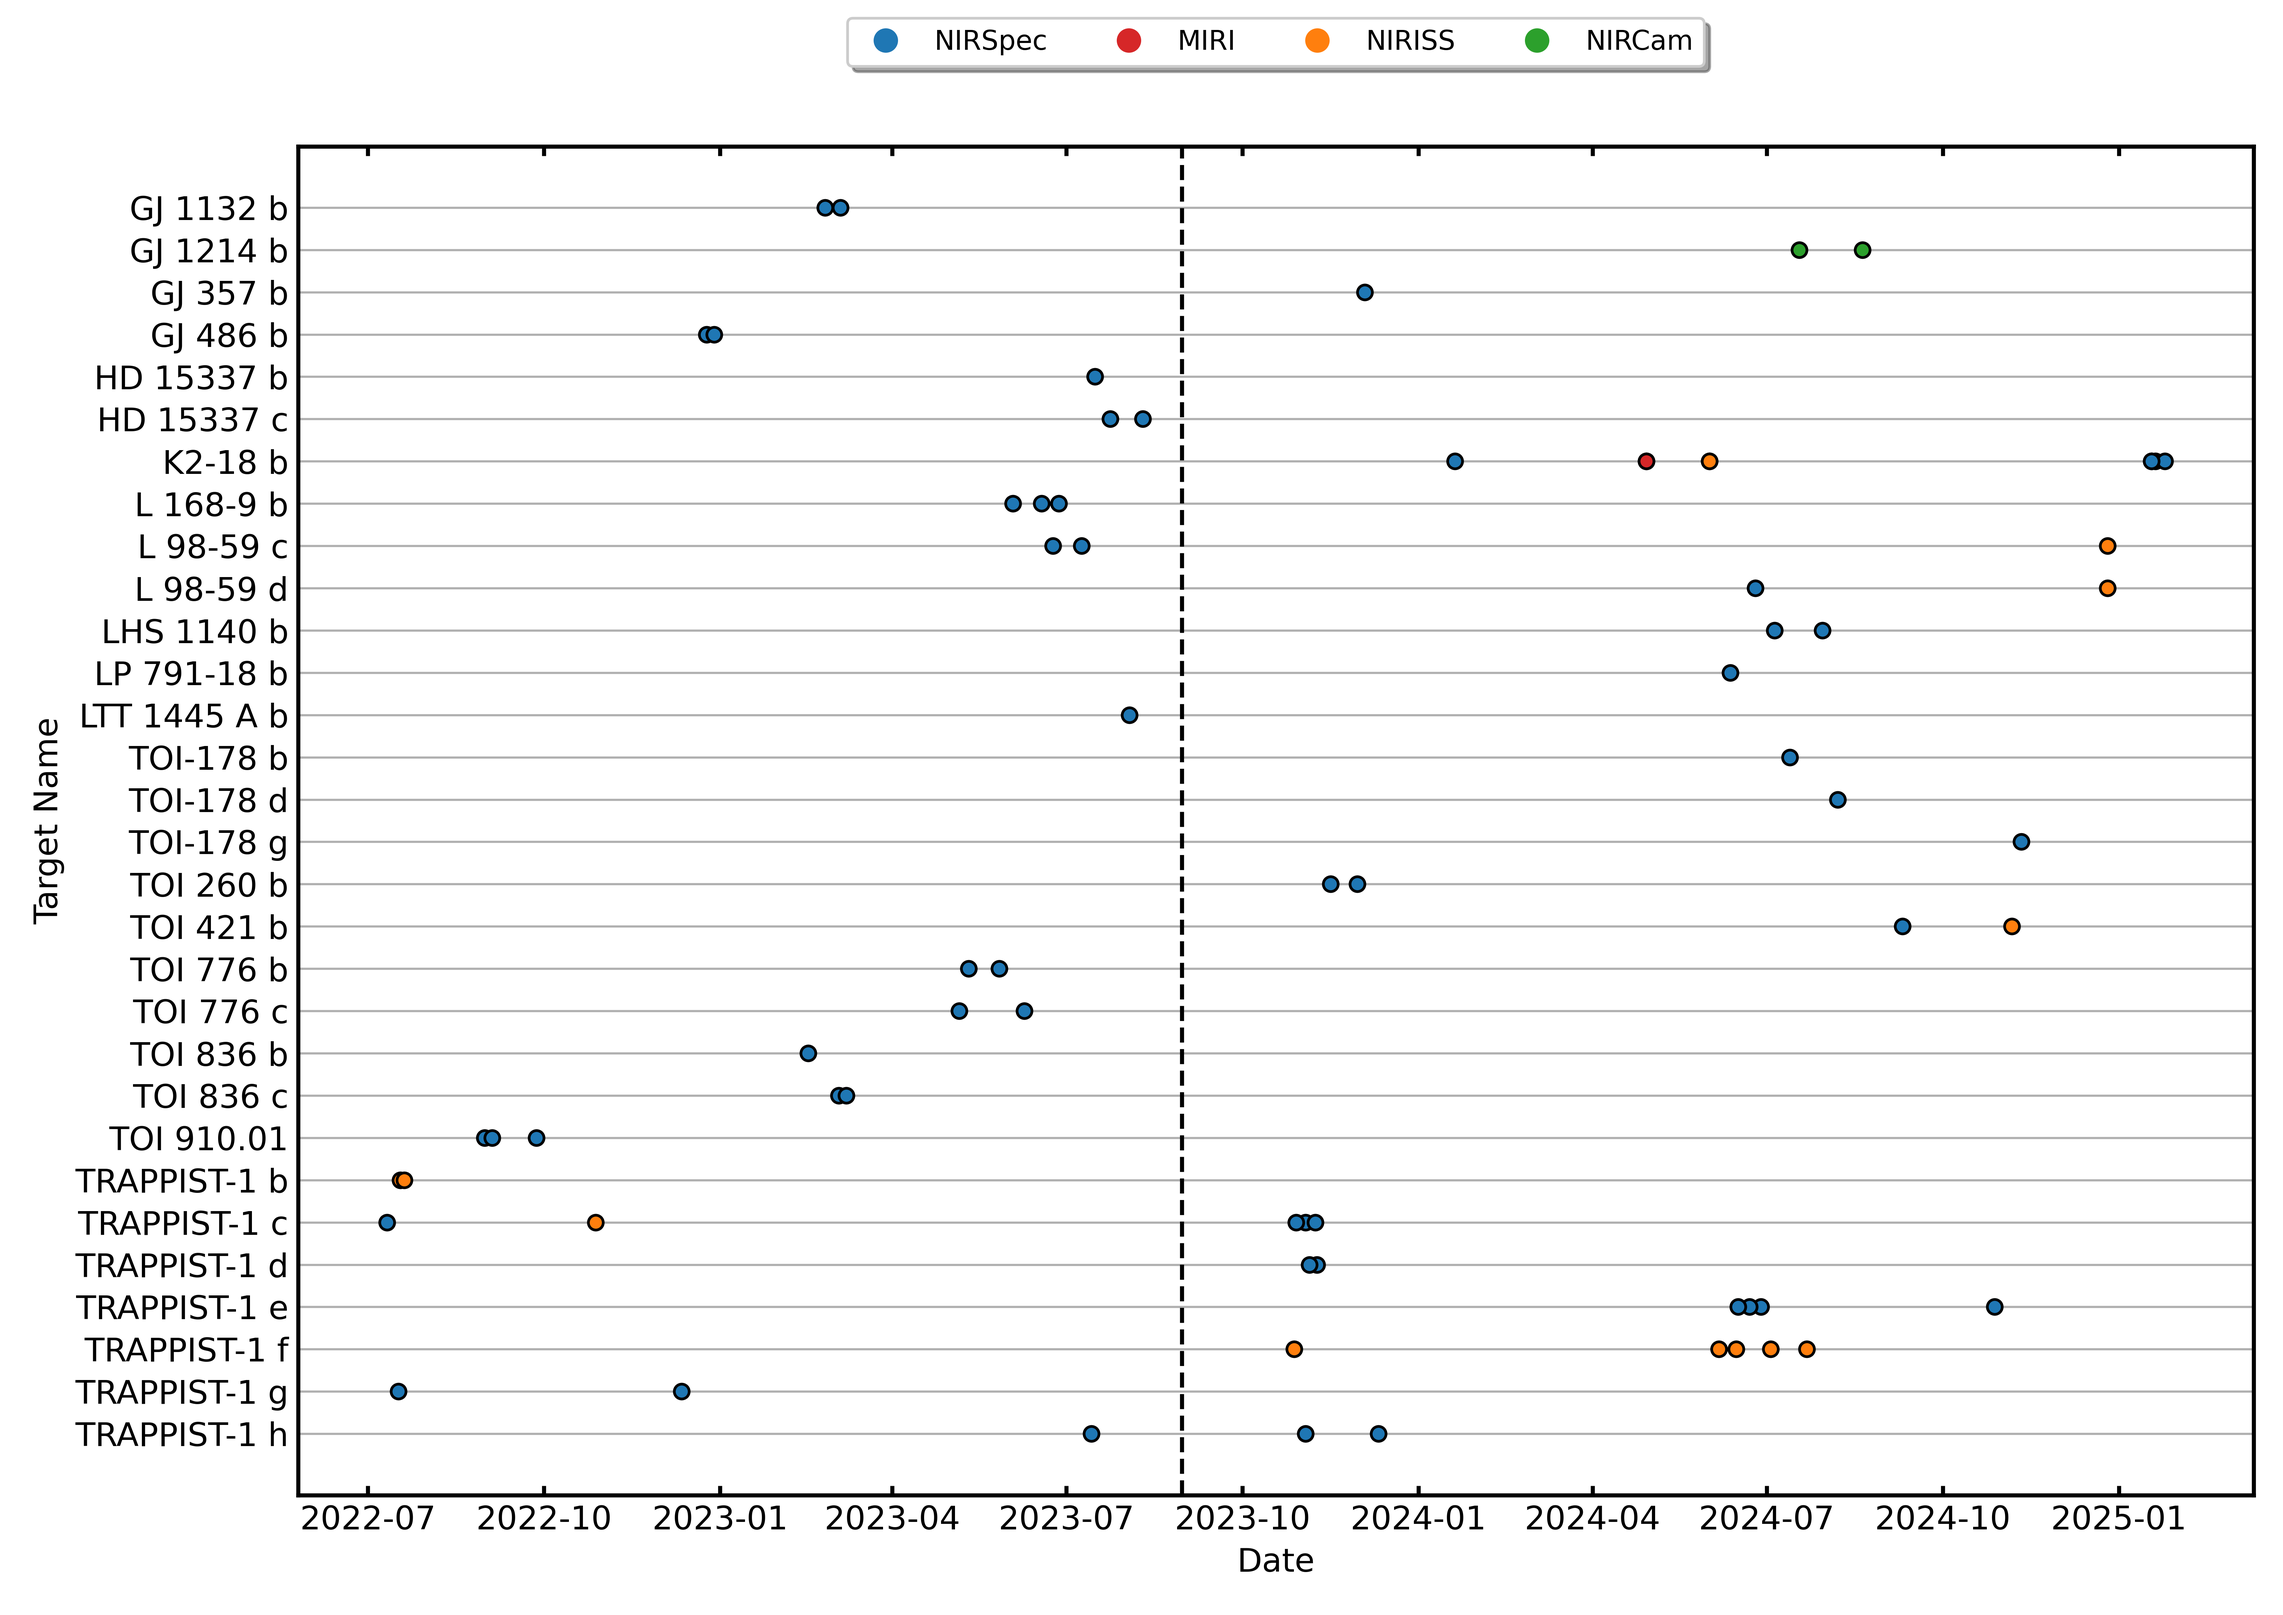
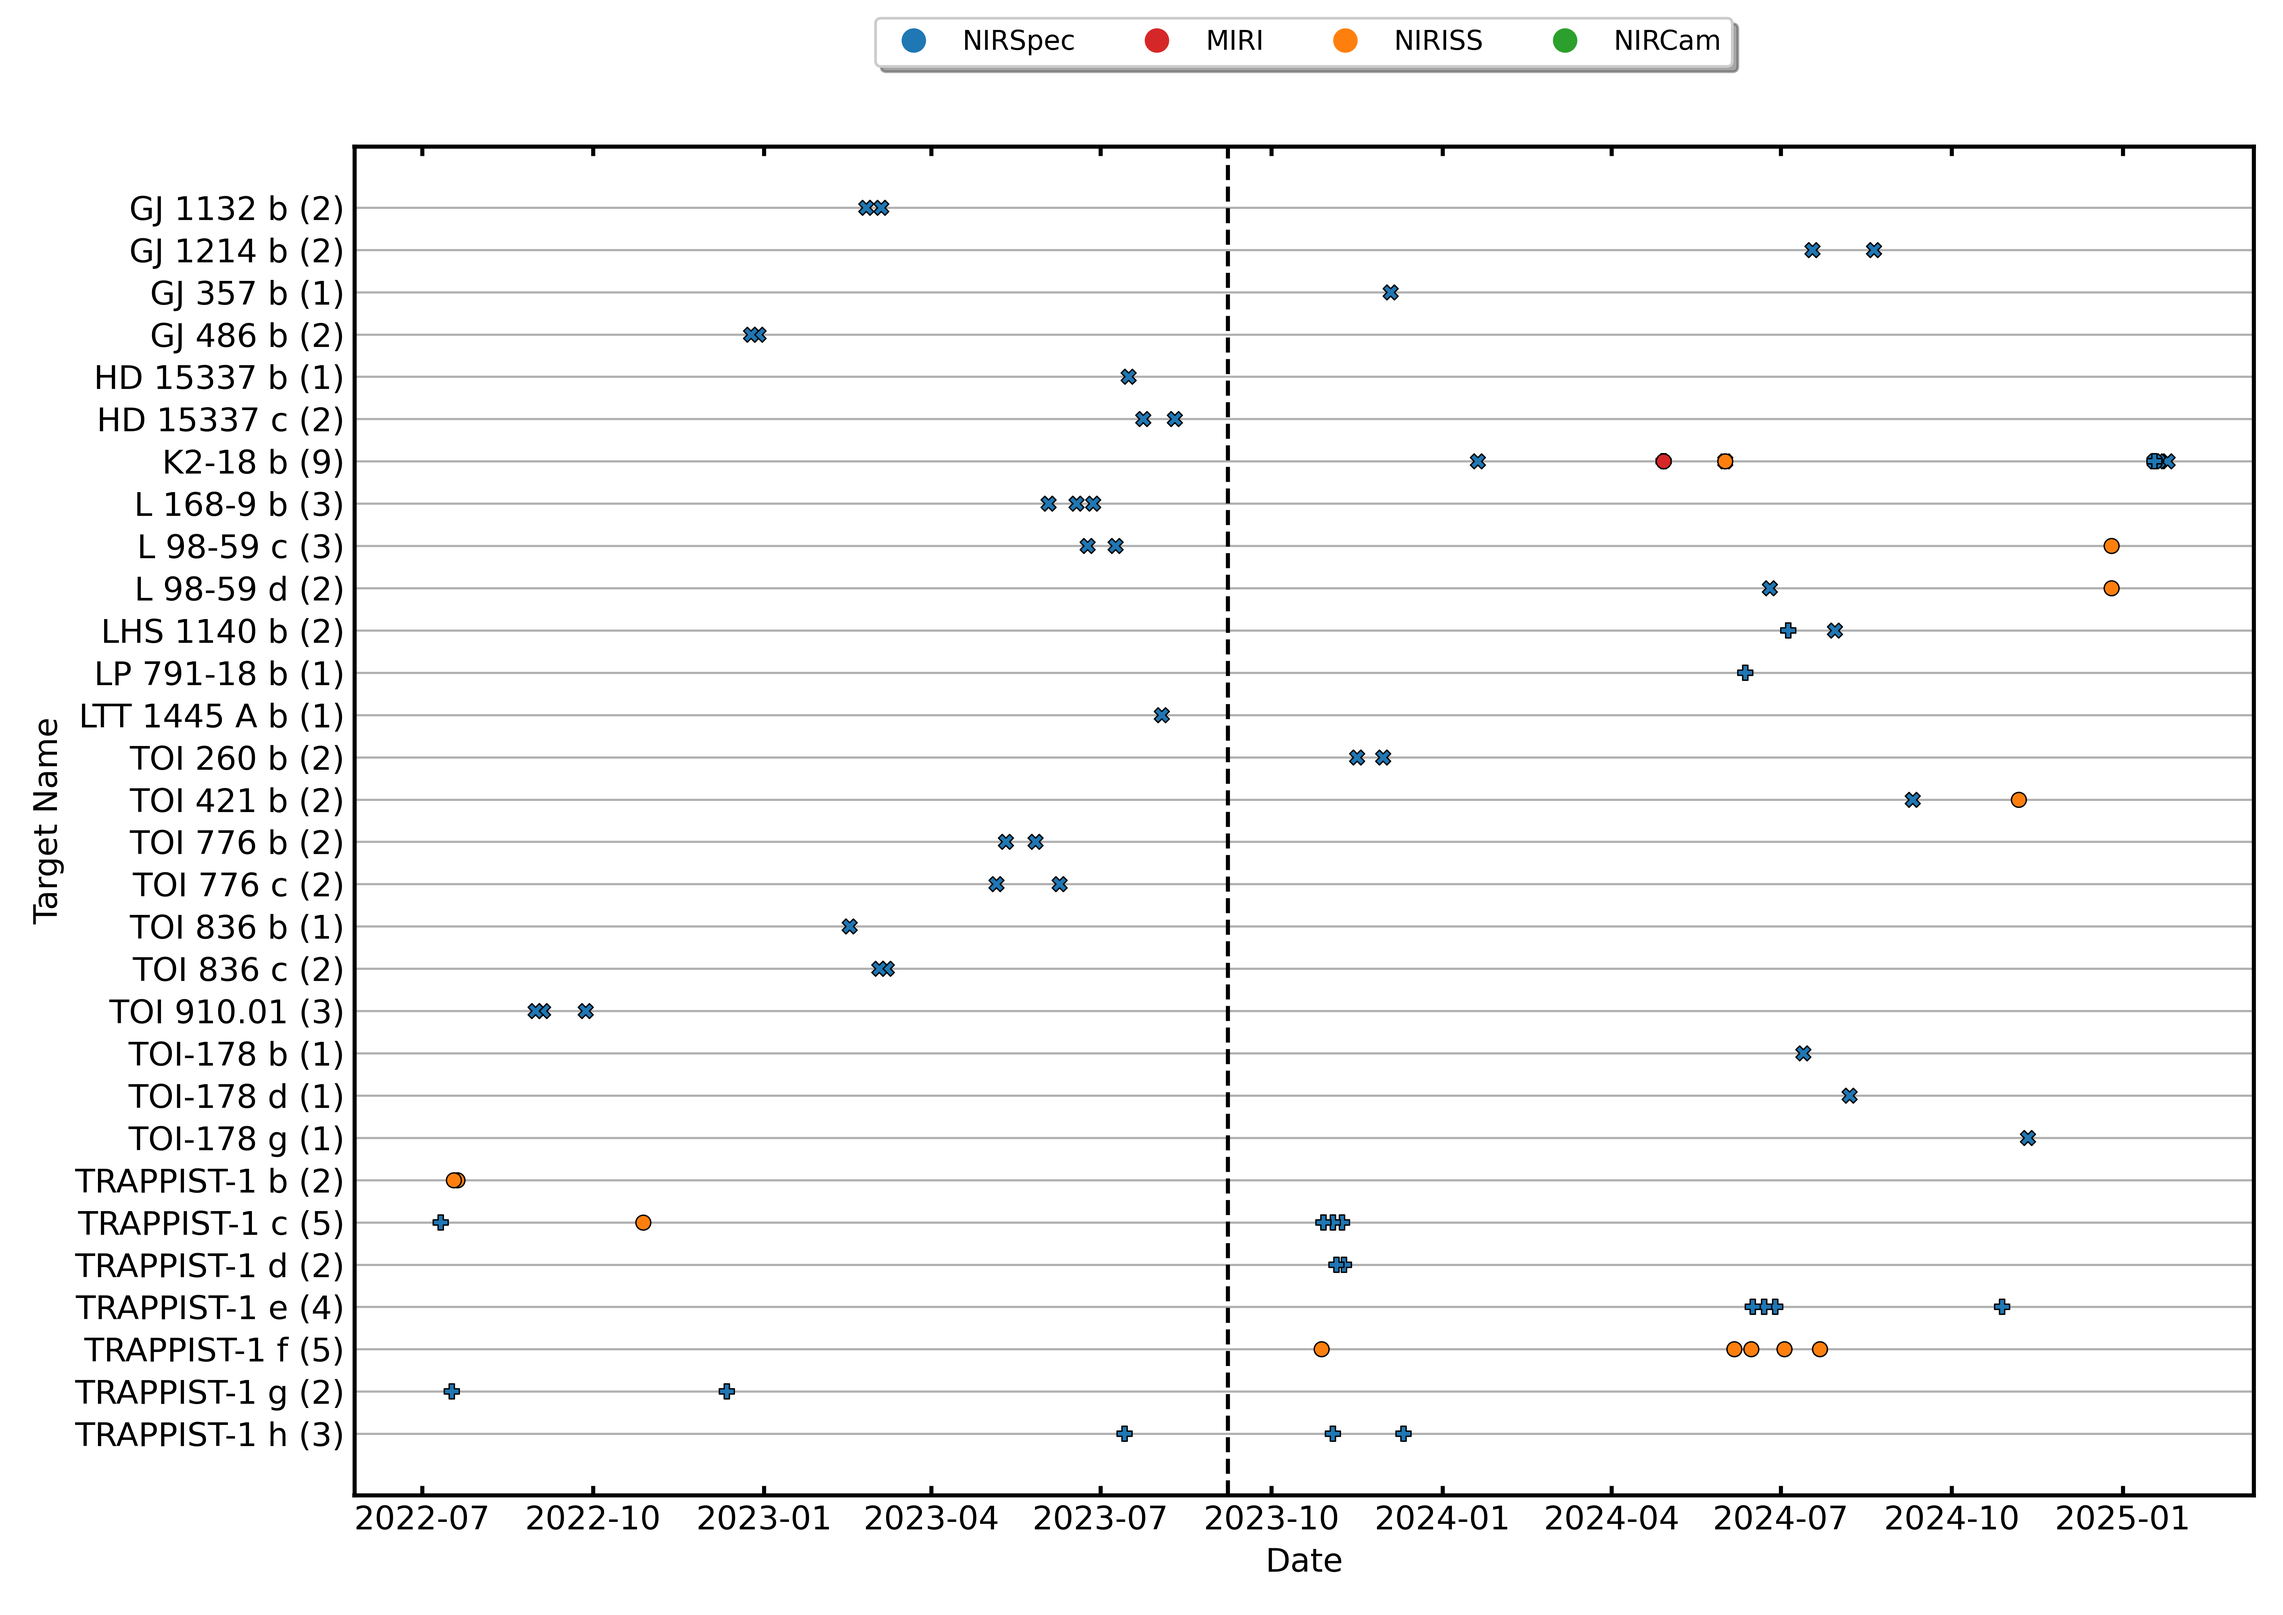
WL coverage

diff --git a/target_schedule.py b/target_schedule.py
@@ -1,13 +1,13 @@
-import pandas as pd
-import datetime as dt
 import dateutil.relativedelta as daterel
-import numpy as np
-import copy as cp
-import matplotlib as mpl
-import matplotlib.pyplot as plt
 from matplotlib.lines import Line2D
+import matplotlib.pyplot as plt
+import matplotlib as mpl
 import modules.util as u
 from typing import Tuple
+import datetime as dt
+import pandas as pd
+import numpy as np
+import copy as cp
 
 
 # GLOBALS
@@ -41,8 +41,18 @@ def wrap_schedule_plot(select_list: pd.DataFrame, savename: str) -> None:
 
     # Plotting routine
     fig, ax = timeline_plot_setup()
-    for idx in range(final_length):
-        indiv_target_plot(select_list.iloc[idx], ax)
+
+    # Make sure points are plotted in observation date order
+    for name in select_list["Target Name"].unique():
+
+        temp_frame = select_list.loc[select_list["Target Name"] == name]
+        temp_frame = temp_frame.sort_values(
+            by="Observation Date(s) [MM/DD/YY]", ascending=False
+        )
+
+        total_obs = temp_frame.shape[0]
+        for idx in range(total_obs):
+            indiv_target_plot(temp_frame.iloc[idx], ax, total_obs)
 
     # Plot indication of current date
     today = dt.datetime.today()
@@ -155,18 +165,29 @@ def select_targets(
 def assign_inst_colour(
         raw_data_frame: pd.Series,
         inst_key: str
-) -> str:
+) -> tuple:
     """Assign colour for plot based on instrument used"""
     # Instrument colour scheme
     inst_col = INSTRUMENT_COLOUR_MAP
 
     # Target instrument key values
-    inst_keys = raw_data_frame[inst_key].split(" / ")
+    inst_id_lst = raw_data_frame[inst_key].split(" / ")
 
     # Assign colours based on instrument (entries are e.g. "NIRspec, BOTS")
-    colour_key = inst_col[inst_keys[0]]
+    colour_key = inst_col[inst_id_lst[0]]
 
-    return colour_key
+    # Assign marker based on filter (wavelength-range)
+    # TODO: Cover all instrument-filer-combinations
+    marker_filter = "o"
+    inst_filter = raw_data_frame["Filter"]
+
+    if inst_id_lst[0] == "NIRSpec":
+        if inst_filter == "F290LP":
+            marker_filter = "X"
+        else:
+            marker_filter = "P"
+
+    return colour_key, marker_filter
 
 
 def timeline_plot_setup() -> Tuple[plt.Figure, plt.Axes]:
@@ -181,15 +202,20 @@ def timeline_plot_setup() -> Tuple[plt.Figure, plt.Axes]:
     return fig, ax
 
 
-def indiv_target_plot(df_entry: pd.Series, ax: plt.Axes) -> None:
+def indiv_target_plot(
+        df_entry: pd.Series, ax: plt.Axes, label_add: int
+) -> None:
     """Plot individual target entry in extended data frame"""
     # Plot parameters
     date = df_entry["Observation Date(s) [MM/DD/YY]"]
     name = df_entry["Target Name"]
-    colour_inst = assign_inst_colour(df_entry, "Instrument")
+    colour_inst, marker_filt = assign_inst_colour(df_entry, "Instrument")
 
     # Plot values and
-    ax.scatter(date, name, s=30, c=colour_inst, edgecolor="black", zorder=4)
+    ax.scatter(
+        date, f"{name} ({label_add})", s=30, marker=marker_filt, lw=0.5,
+        c=colour_inst, edgecolor="black", zorder=4
+    )
 
 
 def timeline_plot_cleanup(ax: plt.Axes) -> None:
